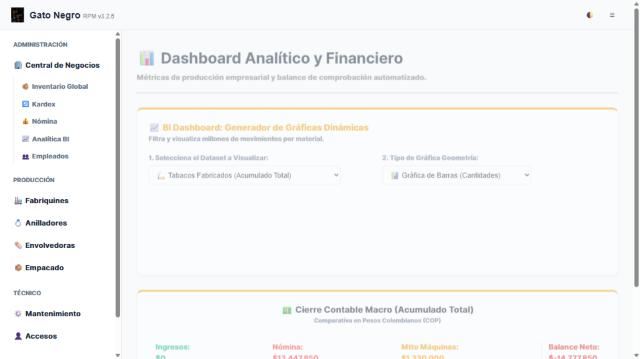
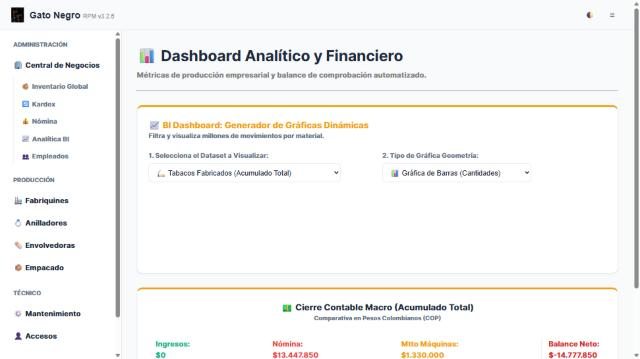
docs(taller): hallazgo 19, grafica del dashboard original no se dibuja por JSON roto

diff --git a/documentacion/taller/01_diagnostico.md b/documentacion/taller/01_diagnostico.md
@@ -38,7 +38,7 @@ Criterio para la pantalla más débil: `/bodega` concentra **1361 atributos `sty
 
 Global (`public/css/theme.css`): 226 líneas, 56 variables, **1 sola** regla `:focus-visible`, **2** `@media` en total, 1 bloque `prefers-reduced-motion`.
 
-## 3. Matriz de hallazgos (18)
+## 3. Matriz de hallazgos (19)
 
 | # | Pantalla | Hallazgo | Impacto | Prioridad | Acción / corrección |
 |---|---|---|---|---|---|
@@ -60,13 +60,16 @@ Global (`public/css/theme.css`): 226 líneas, 56 variables, **1 sola** regla `:f
 | 16 | /analitica | 2 selects sin label; 0 atributos ARIA; la gráfica no tiene alternativa textual | Medio | Media | Labels y descripción de la gráfica |
 | 17 | Navegación | Emojis como iconos del menú; "Recepción" aparece en 3 módulos y "Asignar" en 3 con nombres distintos | Medio: ambigüedad y render inconsistente por sistema | Media | Rediseño de arquitectura (Fase 2) |
 | 18 | Global | Estilos de foco mínimos (2 coincidencias de `:focus` en `theme.css` y `header.ejs`), solo 3 `@media` en todo el sistema (2 en `theme.css`, 1 en `header.ejs`; 0 en las 5 vistas base), **0 skip links en todas las vistas**, 0 ARIA en 4 de 5 pantallas | Alto: teclado y adaptabilidad deficientes | Alta | Foco global, breakpoints, skip link (Fases 3–4) |
+| 19 | /analitica (estado original) | La gráfica del dashboard **no se dibuja**: `JSON.parse` falla en consola (`Expected property name or '}' in JSON`) porque `analitica.ejs:67` inyectaba el JSON con `<%-` (sin escapar) dentro del atributo `data-raw="..."`, cuyas comillas dobles cortaban el atributo | Alto: el dashboard principal queda sin su visualización clave y sin aviso al usuario | Alta | Escapar con `<%=` (corregido en `de97435`); mejor aún, pasar los datos en un `<script type="application/json">` y mostrar un estado de error si falla |
 
-Limitación de las capturas "antes" de `/analitica`: la gráfica de `chart.js` se carga desde CDN y en las capturas del commit `a24fbc5` el recuadro aparece vacío porque la foto se tomó antes de que terminara de dibujarse (en la versión actual sí se ve). El hallazgo 15 se basa en la captura de la versión actual, con DOM idéntico. Si se necesita la imagen "antes" con la gráfica dibujada, hay que recapturarla desde `a24fbc5` esperando unos segundos.
+Sobre las capturas "antes" de `/analitica`: en el commit original `a24fbc5` el recuadro de la gráfica aparece **vacío incluso tras esperar 5 s**. No es un problema de captura sino el hallazgo 19: un error real de la aplicación original. La captura se conserva tal cual como evidencia. El hallazgo 15 (escala de la gráfica) se observó en la versión actual, donde la gráfica ya se dibuja.
 
 Pendiente de medir con herramienta (no afirmado aún): contraste de textos secundarios (subtítulos grises sobre fondo crema) y tiempos de carga; se medirá con Lighthouse en la Fase 4.
 
+Evidencia del hallazgo 19: capturas `capturas/antes/*/1_dashboard_analitica.jpg` (recuadro vacío) y error de consola en `a24fbc5`, línea 410 de la página renderizada. Diferencia verificada con `git show a24fbc5:views/admin/analitica.ejs` frente a la versión actual.
+
 ## 4. Prioridad resumida
-- **Alta (11):** 1, 2, 3, 4, 5, 6, 7, 11, 13, 14, 18
+- **Alta (12):** 1, 2, 3, 4, 5, 6, 7, 11, 13, 14, 18, 19
 - **Media (7):** 8, 9, 10, 12, 15, 16, 17
 
-Total: 18 hallazgos (requisito: mínimo 15). Prioridad Baja: ninguno por ahora; se añadirán los menores que aparezcan al implementar.
+Total: 19 hallazgos (requisito: mínimo 15). Prioridad Baja: ninguno por ahora; se añadirán los menores que aparezcan al implementar.
